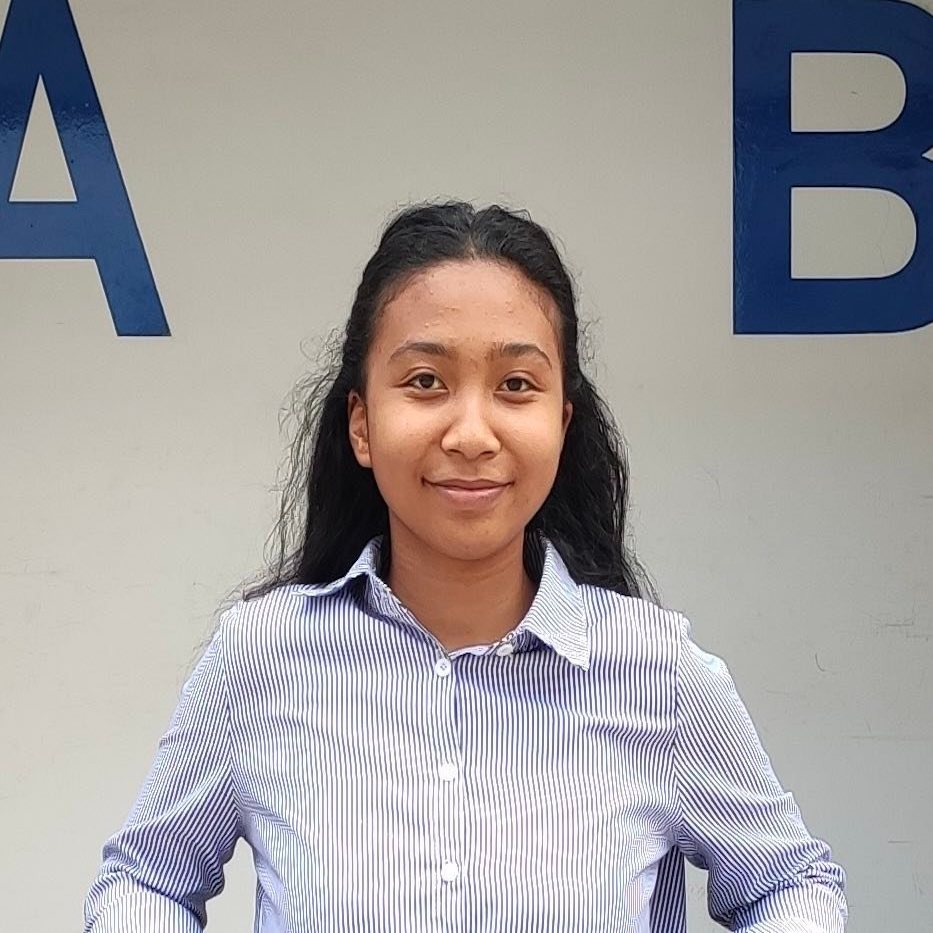
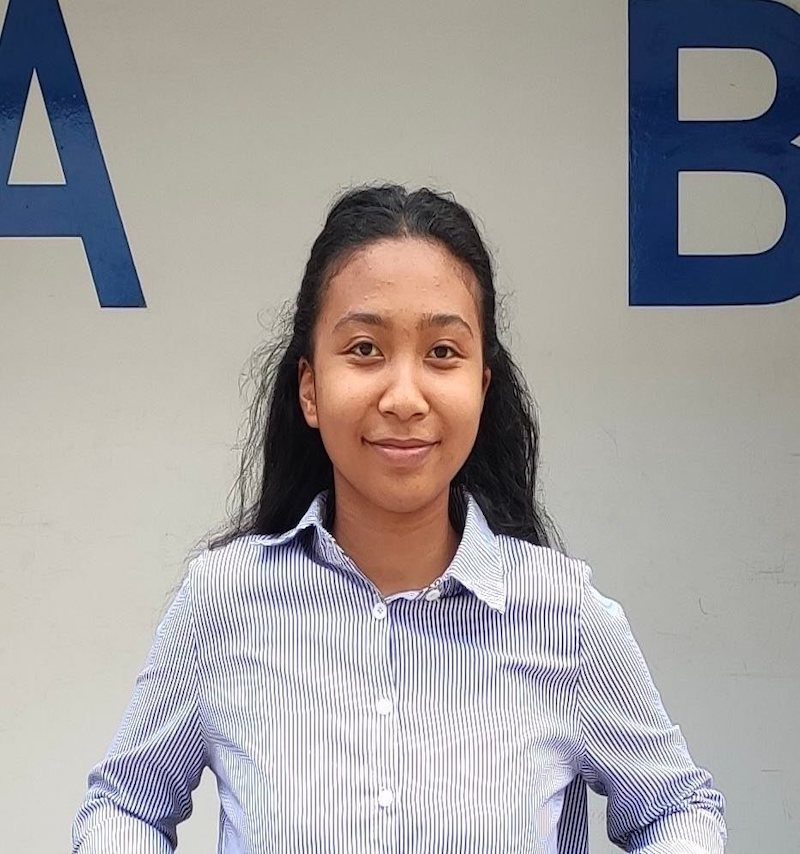
Team section is now fully responsive

diff --git a/v2/index.html b/v2/index.html
@@ -128,7 +128,7 @@
                   <div class="container">
                     <h2>Abdu</h2>
                     <p class="title">Founder</p>
-                    <p>Let's change cooking as we know it!</p>
+                    <p>Let's change the future of cooking!</p>
                   </div>
                 </div>
               </div>
@@ -169,7 +169,7 @@
                   <div class="container">
                     <h2>Daniel</h2>
                     <p class="title">Founder</p>
-                    <p>ooking has never been so easy!</p>
+                    <p>Cooking has never been this easy!</p>
                   </div>
                 </div>
               </div>

diff --git a/v2/style.css b/v2/style.css
@@ -397,7 +397,7 @@ html {
 }
 
 #team img {
-    border-radius: 360px;
+    border-radius: 1000px;
     box-shadow: 0 0 10px;
 }
 
@@ -410,7 +410,7 @@ html {
     font-style: italic;
 }
 
-@media screen and (max-width: 650px) {
+@media screen and (max-width: 1170px) {
   #team .column {
     width: 100%;
     display: block;
